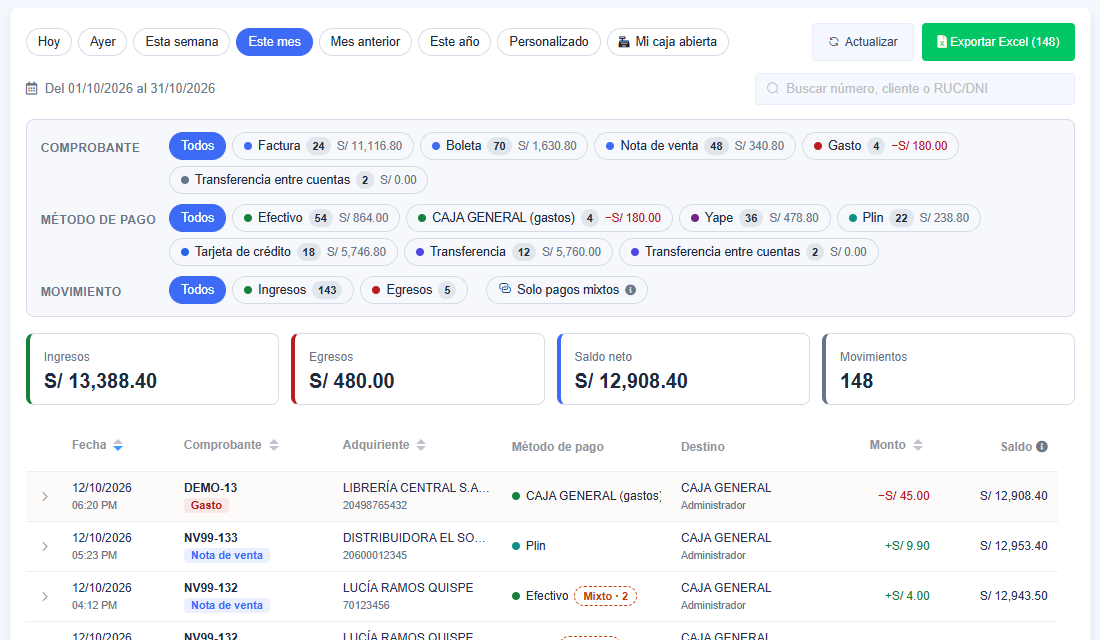
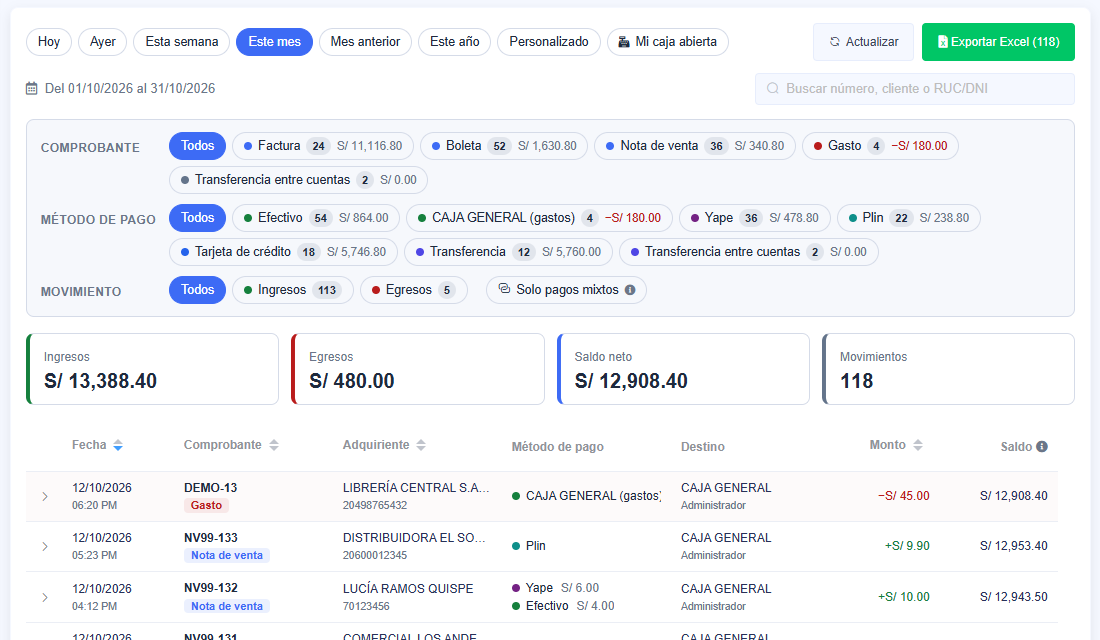
docs(finanzas): Movimientos por comprobante con el desglose de métodos
- Un comprobante pagado con varios métodos es una fila con el desglose
  («Yape S/ 6.00 / Efectivo S/ 4.00»); al filtrar un método la fila suma
  solo ese y el resto se ve en gris; un crédito cobrado en días distintos
  da una fila por día. Los chips y «Movimientos» cuentan comprobantes.
- Excel: una columna por método que aparece (solo «Efectivo» si todo fue
  en efectivo; solo lo filtrado si hay filtro), con los egresos en negativo
  para que el total de cada columna sea el neto.
- Capturas reales nuevas: movimientos-1, -2, -3 y -6 (tenant de prueba,
  clientes inventados).

Verificado: bun run build OK.

diff --git a/docs/modulos/esenciales/finanzas/01-Movimientos.md b/docs/modulos/esenciales/finanzas/01-Movimientos.md
@@ -8,8 +8,10 @@ y cuentas bancarias**. Aparecen:
 - el saldo inicial de cada caja;
 - las transferencias entre cuentas.
 
-**Cada fila es un pago.** Muestra con qué método se pagó (Efectivo, Yape, Plin, tarjeta, transferencia…),
-a qué caja o cuenta llegó y el saldo acumulado.
+**Cada fila es un comprobante**, con lo que se pagó ese día. Muestra:
+- con qué métodos se pagó (Efectivo, Yape, Plin, tarjeta, transferencia…) y cuánto con cada uno;
+- a qué caja o cuenta llegó;
+- el saldo acumulado.
 
 ![Pantalla de Movimientos: periodo, filtros en chips, totales y la tabla de movimientos](img/movimientos-1.png)
 
@@ -42,7 +44,7 @@ Debajo del periodo hay tres grupos de chips:
 
 - **Puedes marcar uno, varios o ninguno.** «Todos» quita el filtro de ese grupo. La tabla y los totales se
   actualizan al instante: no hay que pulsar «Buscar».
-- **Solo salen los chips que tienen movimientos en el periodo.** Cada uno dice cuántos movimientos hay y
+- **Solo salen los chips que tienen movimientos en el periodo.** Cada uno dice cuántos comprobantes hay y
   cuánto suman.
 - **Cada chip cuenta lo que verías si lo marcaras.** Si eliges **Yape**, el chip **Boleta** dice cuántas
   boletas se pagaron con Yape y por cuánto.
@@ -53,7 +55,7 @@ Debajo del periodo hay tres grupos de chips:
 Los filtros quedan en la dirección de la página: al recargar se mantienen, y puedes compartir el enlace
 con otra persona que tenga acceso.
 
-![Boletas y notas de venta pagadas con Yape: chips marcados y totales del filtro](img/movimientos-2.png)
+![Boletas y notas de venta pagadas con Yape: chips marcados, totales del filtro y el efectivo en gris](img/movimientos-2.png)
 
 :::tip Métodos de los gastos
 Los gastos usan su propio catálogo de métodos, como «CAJA GENERAL». Por eso llevan **(gastos)** al lado:
@@ -62,11 +64,14 @@ así no se confunden con un método de ventas que se llame igual.
 
 ## Comprobantes pagados con varios métodos
 
-Si un comprobante se pagó con más de un método, sale **una fila por cada pago**, y cada una lleva la
-marca **Mixto · 2**. Por ejemplo, una boleta de S/ 45.90 pagada con Efectivo S/ 30.00 y Yape S/ 15.90 da
-dos filas. Así el total de cada método es exacto.
+Si un comprobante se pagó con más de un método, sale **en una sola fila con el desglose**. Por ejemplo,
+una nota de venta pagada con Yape S/ 6.00 y Efectivo S/ 4.00 da una fila de S/ 10.00, con
+«Yape S/ 6.00 / Efectivo S/ 4.00» en **Método de pago**.
 
-- Pulsa **Mixto · 2** para ver todos los pagos del comprobante. El de esa fila sale resaltado.
+- **Al filtrar por un método**, la fila suma solo lo de ese método. Con **Yape**, esa nota de venta cuenta
+  S/ 6.00, y el efectivo se ve en gris: es del comprobante, pero no entra en el filtro. Así la fila cuadra
+  con los totales de arriba.
+- **Un crédito cobrado en días distintos** sale una fila por cada día que se cobró.
 - Pulsa la flecha de la izquierda para desplegar la fila. Ahí ves:
   - los pagos del comprobante;
   - el detalle de un gasto o ingreso;
@@ -75,11 +80,12 @@ dos filas. Así el total de cada método es exacto.
   - la fecha de emisión, si se cobró otro día;
   - quién lo registró.
 
-![Pagos de una nota de venta pagada con Yape y Efectivo, y su fila desplegada](img/movimientos-3.png)
+![Nota de venta pagada con Yape y Efectivo en una sola fila, desplegada con sus pagos](img/movimientos-3.png)
 
 ## Totales y saldo
 
 - **Ingresos, Egresos, Saldo neto y Movimientos** suman **todo lo filtrado**, no solo la página que ves.
+  «Movimientos» cuenta filas: un comprobante pagado con dos métodos cuenta una vez.
 - **Monto**: en verde con «+» si es un ingreso, en rojo con «−» si es un egreso.
 - **Saldo**: el acumulado de lo filtrado en orden cronológico. La primera fila, la más reciente, muestra
   el saldo final.
@@ -100,16 +106,21 @@ El archivo se arma **en segundo plano**, así que puedes seguir trabajando. Cuan
 
 El Excel trae dos hojas:
 
-- **Movimientos**, una fila por pago, con estas columnas:
+- **Movimientos**, una fila por comprobante, como en la pantalla, con estas columnas:
   - fecha, fecha de emisión (si se cobró otro día), tipo y número del comprobante;
   - adquiriente o proveedor y su documento;
-  - **método de pago** y **pagos del comprobante** (por ejemplo `Efectivo 30.00 + Yape 15.90`), y si fue
-    pago mixto;
-  - destino, referencia, moneda, monto original y tipo de cambio;
+  - **una columna por cada método de pago que aparece** (Efectivo | Yape | Plin | …), con lo que se pagó
+    con cada uno;
   - ingreso, egreso y saldo en soles;
+  - si fue pago mixto y los **pagos del comprobante** (por ejemplo `Efectivo 30.00 + Yape 15.90`);
+  - destino, referencia, moneda, monto original y tipo de cambio;
   - usuario y detalle.
 
   Arriba lleva la empresa, el establecimiento y los filtros que usaste.
+
+  **Las columnas de método son solo las que aparecen en lo exportado.** Si todo se cobró en efectivo,
+  sale solo «Efectivo»; si filtraste Yape, solo «Yape». Los egresos van en negativo, así que la fila de
+  totales da el neto de cada método.
 - **Resumen**, con lo que entró y salió por cada método de pago y por cada tipo de comprobante.
 
 ## En el celular
